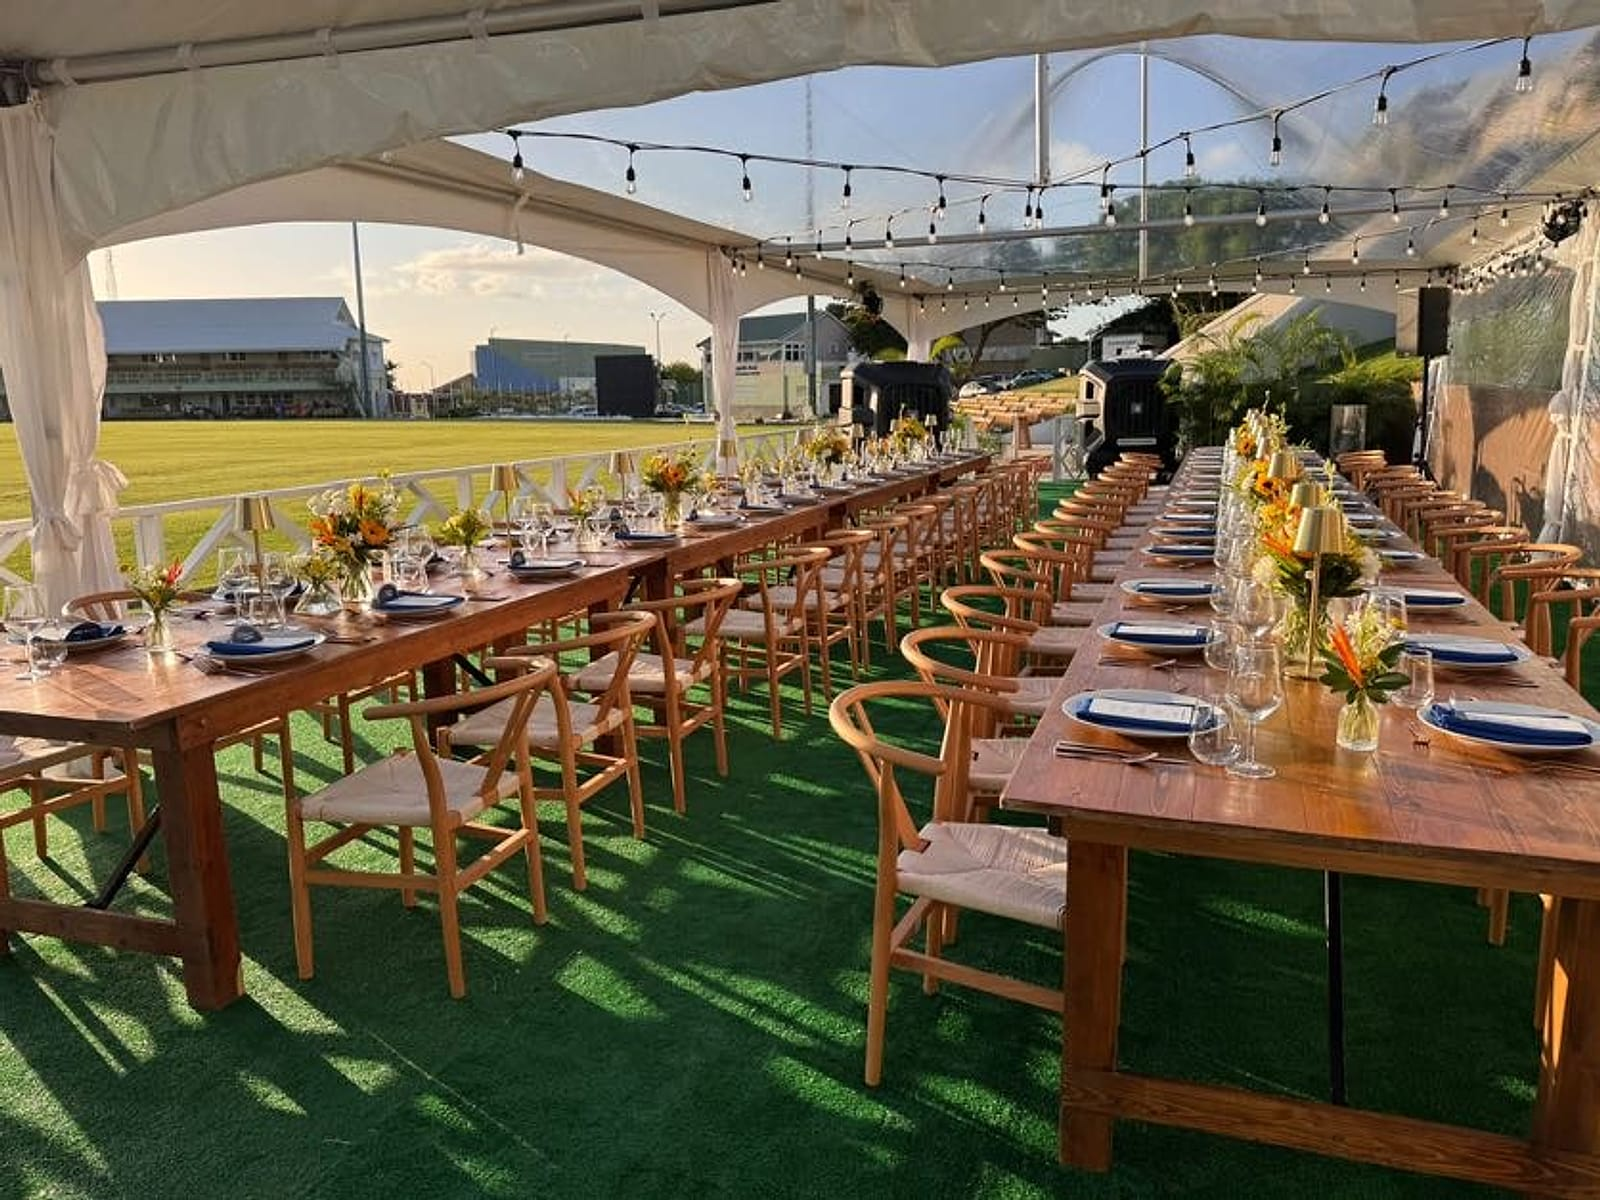
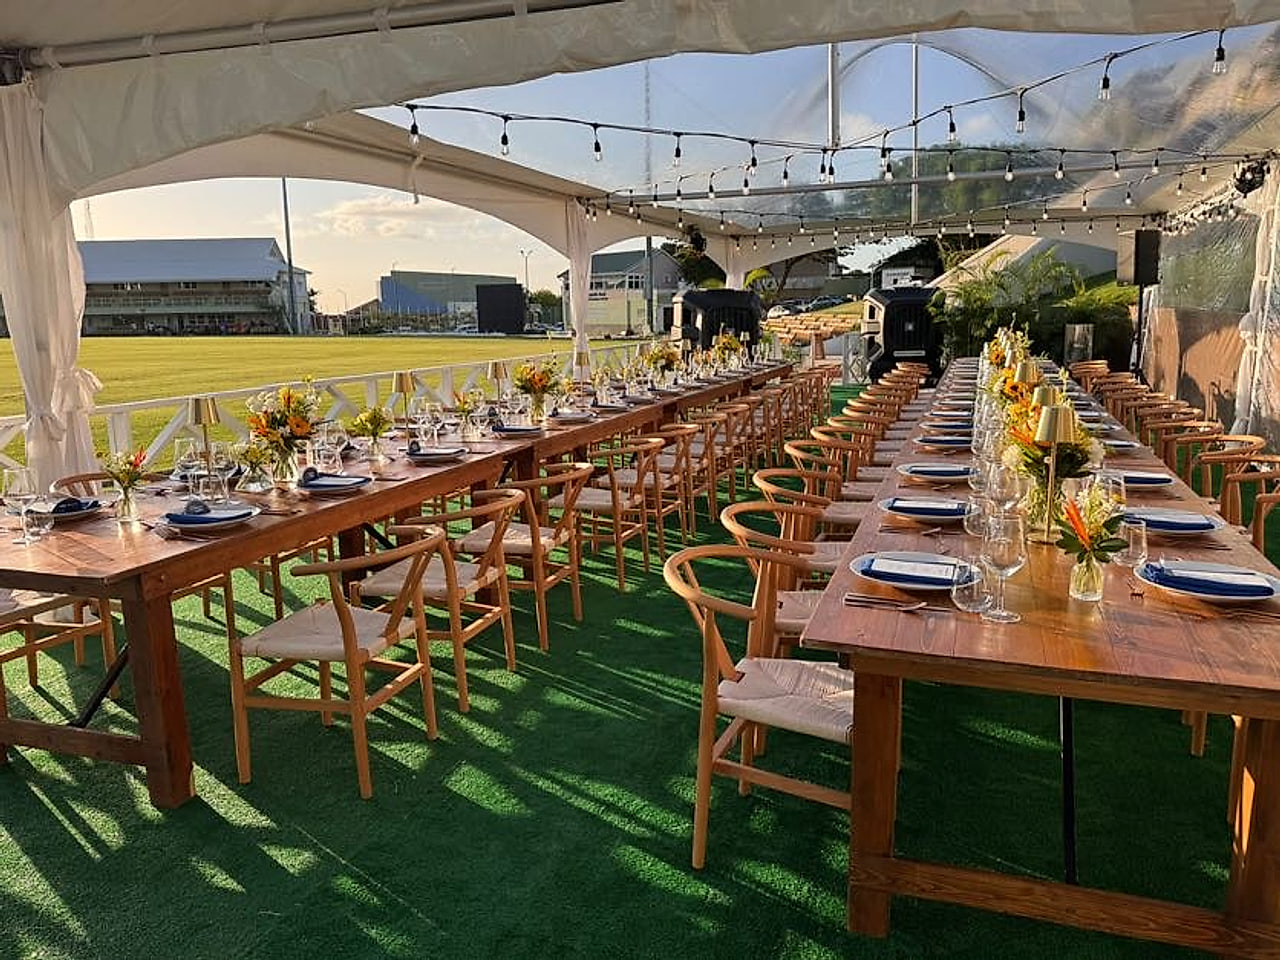
Hero: sharper photo shown on the right side at near its real size instead of stretched across the full width

diff --git a/odoo/theme/custom_code_head.html b/odoo/theme/custom_code_head.html
@@ -130,8 +130,10 @@ footer#bottom h1,footer#bottom h2,footer#bottom h3,footer#bottom h4,footer#botto
 /* home hero: light photo hero with search */
 /* the tiles overlap the hero's foot; while the search is in use its suggestions sit above them */
 .ri-home-hero:focus-within{z-index:4}
-.ri-home-hero{position:relative;z-index:1;background-color:#fff;background-size:cover;background-position:center 45%;padding:clamp(52px,7vw,104px) 0 clamp(92px,10vw,132px)!important;overflow:visible}
-.ri-home-hero>.o_we_bg_filter{position:absolute;top:0;right:0;bottom:0;left:0;background-image:linear-gradient(90deg,rgba(255,255,255,.97) 0%,rgba(255,255,255,.92) 38%,rgba(255,255,255,.45) 64%,rgba(255,255,255,0) 84%)}
+.ri-home-hero{position:relative;z-index:1;background-color:#fff;padding:clamp(52px,7vw,104px) 0 clamp(92px,10vw,132px)!important;overflow:visible}
+/* Rent It's hero photo is only 836px wide, so it fills the right side (at most 1100px) instead of the full width, and its left edge fades into the white */
+.ri-home-hero>.ri-hero-img{position:absolute;top:0;right:0;width:min(55%,1100px);height:100%!important;max-width:none;object-fit:cover;object-position:55% 45%;-webkit-mask-image:linear-gradient(90deg,transparent 0,#000 40%);mask-image:linear-gradient(90deg,transparent 0,#000 40%)}
+.ri-home-hero>.o_we_bg_filter{position:absolute;top:0;right:0;bottom:0;left:0;background-image:linear-gradient(90deg,rgba(255,255,255,.95) 0%,rgba(255,255,255,.85) 42%,rgba(255,255,255,0) 62%)}
 .ri-home-hero>.container{position:relative;z-index:1}
 .ri-home-hero h1{font-size:clamp(2.2rem,5vw,3.7rem);font-weight:700;max-width:16ch;margin:0 0 1rem;line-height:1.08}
 .ri-home-hero .ri-lead{font-size:clamp(1rem,1.5vw,1.1rem);color:var(--ri-ink-2);max-width:34rem;margin-bottom:1.7rem;line-height:1.6}
@@ -286,6 +288,7 @@ a.ri-contact-i:hover{border-color:var(--ri-brand-100);color:var(--ri-ink);box-sh
 
 /* responsive */
 @media (max-width:991.98px){
+ .ri-home-hero>.ri-hero-img{width:100%;-webkit-mask-image:none;mask-image:none}
  .ri-home-hero>.o_we_bg_filter{background-image:linear-gradient(180deg,rgba(255,255,255,.94) 0%,rgba(255,255,255,.88) 100%)!important}
  .ri-quick-row{grid-template-columns:repeat(3,minmax(0,1fr));max-width:none}
  .ri-assure{grid-template-columns:1fr;gap:1rem}

diff --git a/odoo/build/README.md b/odoo/build/README.md
@@ -46,7 +46,7 @@ Every call below goes in its own tool call and returns a small JSON report: `{st
 | 13 | `await RIB.loop('stock', 0, 120)` | Sets on-hand stock from `demo_stock`. These are **made-up sample numbers**. | 1-2 calls |
 | 14 | `await RIB.run('delivery')` | Creates one published method, "Delivery and collection", at $0, and says Rent It delivers, sets up and collects, with the parish fee confirmed in the quote. It unpublishes the other methods and lists them. | 3 s |
 | 15 | `await RIB.run('payments')` | Publishes the Demo card (test, no real charge) and the wire-transfer provider renamed "Request my quote (nothing to pay now)". It unpublishes Pay on Invoice. At checkout the footer code hides the demo card, so the last step only sends a quote request; the card stays for the 50% deposit on sent quotes. | 3 s |
-| 16 | `await RIB.loop('gallery', 0, 12)` | Uploads, as public images for the pages: the 32 gallery photos, the white logo, Rent It's 16 Recent Events photos (8 events, two each, cropped 4:5), the home page video's poster, and Rent It's hero photo (their visa_republic event, upscaled to 1600 wide). | 3-5 calls |
+| 16 | `await RIB.loop('gallery', 0, 12)` | Uploads, as public images for the pages: the 32 gallery photos, the white logo, Rent It's 16 Recent Events photos (8 events, two each, cropped 4:5), the home page video's poster, and Rent It's hero photo (their visa_republic event, upscaled to 1280 wide and sharpened; it fills the right side of the hero, not the full width, because the original is only 836px). | 3-5 calls |
 | 16b | `await RIB.run('media')` | Uploads the 34-second home page video (`media/book-with-rentit.mp4`, 720p) as a public attachment, so Odoo streams it under the quote steps. Pass `true` to replace it. | 10 s |
 | 17 | `await RIB.run('theme')` | Optional. Sets the brand palette and fonts in Odoo's SCSS. The first page load afterwards is slow. Undo with `RIB.run('theme', {reset:true})`. | 5 s |
 | 18 | `await RIB.run('customCode')` | Rent It's brand CSS (Cobalt and white, Montserrat) in the head. The footer code adds the demo bar, a small round WhatsApp button to Rent It's number, "Quote" wording in place of "cart", the Shop menu that opens on hover, the Recent Events photo swap, and tracking hooks (`TRACK` IDs at the top are empty until Rent It sends theirs). Our footer goes into the footer template. | 5 s |
